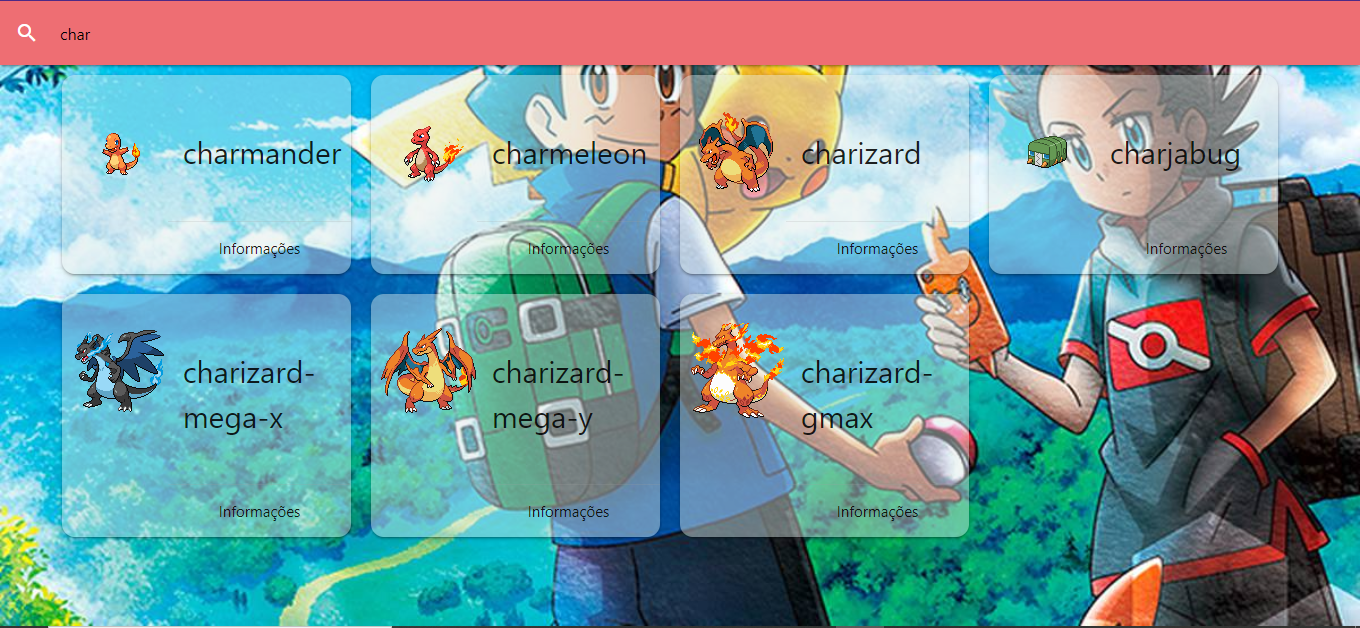
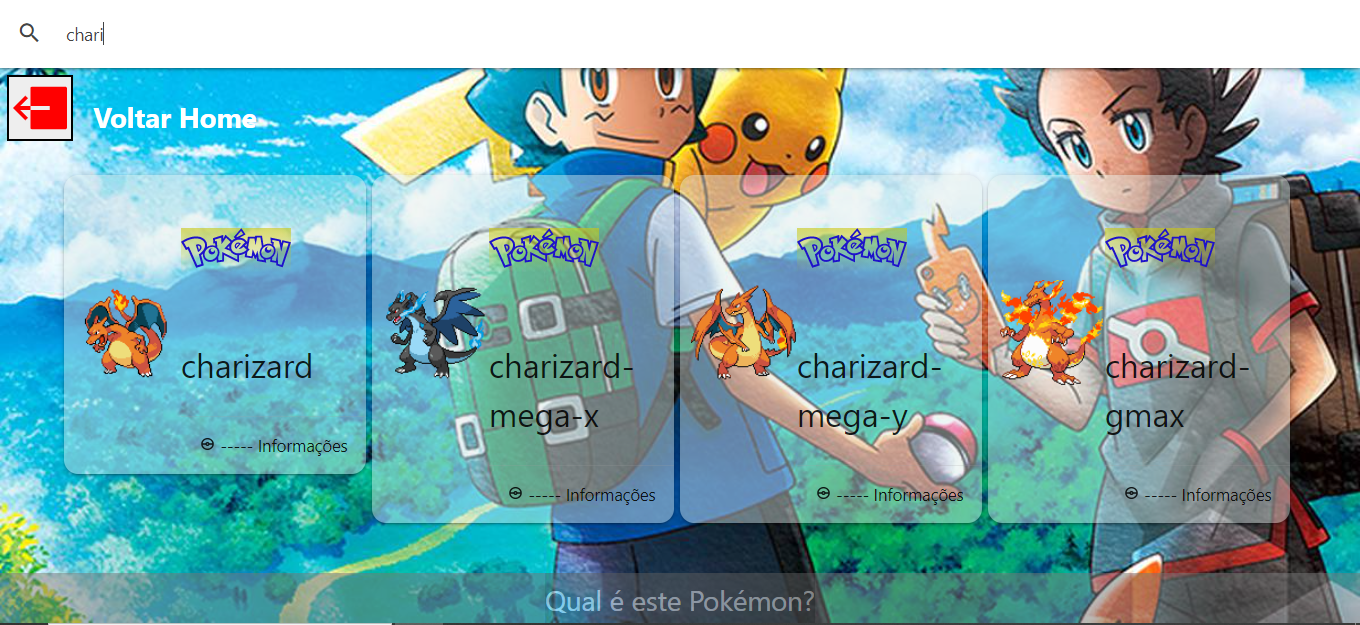
add responsividade e arrumando readme

diff --git a/pokemons/public/style-response.css b/pokemons/public/style-response.css
@@ -11,6 +11,10 @@
     }
 
     /*cards*/
+    .voltar-home .texto-padrao {
+        font-size: 20px;
+    }
+
     .row .col.m6 {
         grid-template-columns: 65% 65% 65%;
     }
@@ -21,7 +25,7 @@
     }
 
     .card .card-content {
-        font-size: 25px;
+        font-size: 20px;
     }
 
     /*sobre nos*/
@@ -48,11 +52,16 @@
 @media (max-width: 768px) and (max-width: 991.98px){
     /*home*/ 
     .container-home-img .texto-padrao {
-        font-size: 20px;
+        font-size: 15px;
     } 
 
     .rodape-home-poke {
         right: 30%;
+    }
+
+    /*cards*/
+    .voltar-home .texto-padrao {
+        font-size: 15px;
     }
 
     /*sobre nos*/
@@ -73,7 +82,7 @@
         right: 18%;
     }
     
-    .sobre-voltar a{    
+    .voltar-icon{    
         font-size: 40px;
     }
     
@@ -102,6 +111,10 @@
         }
 
         /*cards*/
+        .voltar-home .texto-padrao {
+            font-size: 14px;
+        }
+
         .row .col.m6 {
             grid-template-columns: 50% 50%;
         }
@@ -124,13 +137,18 @@
             right: 15%;
         }
 
-        .sobre-voltar a{    
+        .voltar-icon {    
             font-size: 40px;
         }
     }
 
     /*extra small*/
     @media (max-width: 575.98px){
+        /*cards*/
+        .voltar-home .texto-padrao {
+            font-size: 10px;
+        }
+
         /*sobre nos*/
         .texto-sobre {
             margin-top: 65%;
@@ -150,7 +168,7 @@
             font-size: 15px;
         }
 
-        .sobre-voltar a{    
+        .voltar-icon {    
             font-size: 30px;
         }
 

diff --git a/pokemons/src/components/CardsPoke.js b/pokemons/src/components/CardsPoke.js
@@ -1,6 +1,8 @@
 import React from 'react'
 import { connect } from 'react-redux'
 import { Row, Col, Card, CardTitle } from 'react-materialize'
+import { Link } from 'react-router-dom'
+import { IoExitSharp } from 'react-icons/io5'
 
 import changePokes from './../store/action/consultaApi'
 import { CgPokemon } from 'react-icons/cg'
@@ -10,6 +12,10 @@ function CardsPoke({ pokemons }){
     if(pokemons.pokemons){
         return(
             <div className='cards-poke'>
+                <div className='voltar-home'>                    
+                    <Link to='/'><IoExitSharp className='voltar-icon'/></Link>
+                    <p className='texto-padrao'><b>Voltar Home</b></p>
+                </div>   
                 <Row>
                     <Col
                         m={6}

diff --git a/pokemons/src/components/SobreNos.js b/pokemons/src/components/SobreNos.js
@@ -8,7 +8,7 @@ function SobreNos(){
         <div className='container-home'>          
             <div className='container-sobre-img'>
                 <div className='sobre-voltar'>                    
-                    <Link to='/'><IoExitSharp/></Link>
+                    <Link to='/'><IoExitSharp className='voltar-icon' /></Link>
                     <p className='texto-padrao'><b>Voltar</b></p>
                 </div>               
                 <p className='texto-padrao texto-sobre'>

diff --git a/pokemons/public/style-poke.css b/pokemons/public/style-poke.css
@@ -91,6 +91,20 @@ body {
     align-items: center;
 }
 
+.voltar-home {
+    display: flex;
+}
+
+.voltar-home .voltar-icon {
+    margin-top: 10%;
+    margin-left: 10%;
+}
+
+.voltar-home .texto-padrao {
+    font-size: 25px;
+    margin-left: 2%;
+}
+
 .row .col.m6 {
     display: grid;
     grid-template-columns: 47% 47% 47% 47%;
@@ -241,7 +255,7 @@ footer{
     right: 10%;
 }
 
-.sobre-voltar a{    
+.voltar-icon {    
     font-size: 60px;
     transform: rotateY(180deg);
     color: red;

diff --git a/README.md b/README.md
@@ -21,14 +21,23 @@
      <hr />
      <div  align="center">
           <h2>Resultado no brownser</h2>
+          <h3><p>Home page</p></h3>
+          <img  src="https://github.com/oliveiramiro2/pokeApiNodeReact/blob/main/imgs_readme/home1.png?raw=true" height="300"/>
+          <img  src="https://github.com/oliveiramiro2/pokeApiNodeReact/blob/main/imgs_readme/home2.png?raw=true" height="300"/>
+          <br /><br />
+          <h3><p>Pokedex</p></h3>
+          <img  src="https://github.com/oliveiramiro2/pokeApiNodeReact/blob/main/imgs_readme/pokedex1.png?raw=true" height="300"/>
+          <img  src="https://github.com/oliveiramiro2/pokeApiNodeReact/blob/main/imgs_readme/pokedex2.png?raw=true" height="300"/>
+          <br /><br />
           <h3><p>Filtro por pesquisa</p></h3>
-          <img  src="https://github.com/oliveiramiro2/pokeApiNodeReact/blob/main/imgs_readme/pesquisa1.png?raw=true" height="300"/>
-          <br />
           <img  src="https://github.com/oliveiramiro2/pokeApiNodeReact/blob/main/imgs_readme/pesquisa2.png?raw=true" height="300"/>
-          <br />
+          <br /><br />
           <h3><p>Paginação por seta e número</p></h3>
           <img  src="https://github.com/oliveiramiro2/pokeApiNodeReact/blob/main/imgs_readme/paginacao1.png?raw=true" height="300"/>
-          <br />
           <img  src="https://github.com/oliveiramiro2/pokeApiNodeReact/blob/main/imgs_readme/paginacao2.png?raw=true" height="300"/>
+          <br /><br />
+          <h3><p>Sobre nós</p></h3>
+          <img  src="https://github.com/oliveiramiro2/pokeApiNodeReact/blob/main/imgs_readme/sobre1.png?raw=true" height="300"/>
+          <img  src="https://github.com/oliveiramiro2/pokeApiNodeReact/blob/main/imgs_readme/sobre2.png?raw=true" height="300"/>
      </div>
 </div>
